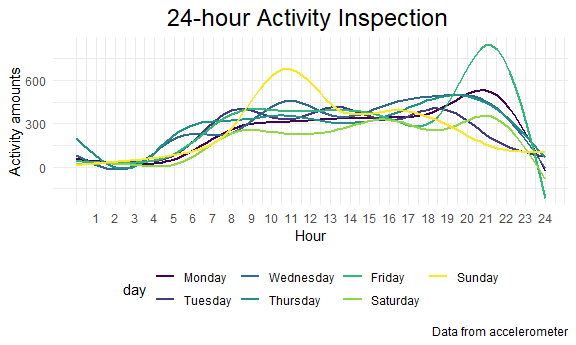
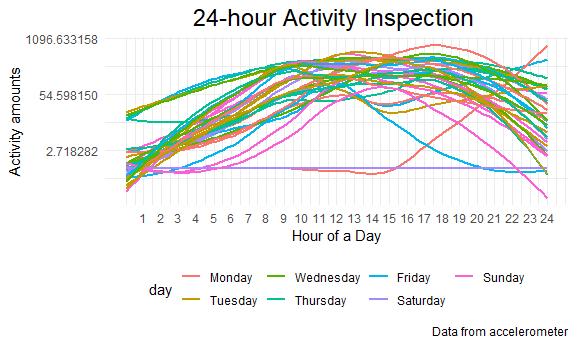
Problem2_part2,3_interpretation + Problem3_start

diff --git a/p8105_hw3_jg4294.md b/p8105_hw3_jg4294.md
@@ -1,7 +1,7 @@
 Homework 3
 ================
 JingYao Geng
-2020-10-10
+2020-10-12
 
 ### Problem 1
 
@@ -151,7 +151,8 @@ acc_df =
     
     day = forcats::fct_relevel(day, c("Monday", "Tuesday", "Wednesday", "Thursday", "Friday", "Saturday", "Sunday"))
   ) %>%
-  arrange(week, day)
+  group_by(week) %>%
+  arrange(day, .by_group = TRUE)
 ```
 
 The original accelerometer dataset has 36 observations and 1443 columns.
@@ -178,37 +179,149 @@ acc_df %>%
 |  4   | 409450.00 | 319568.0 |  434460   | 340291.0 | 154049.0 |   1440   | 260617 |
 |  5   | 389080.00 | 367824.0 |  445366   | 549658.0 | 620860.0 |   1440   | 138421 |
 
-Saturday seems to be the day that man has least activity amounts,
-especially for the last 2 weeks. All the weekdays seem to have quite
-similar activity amounts in general. Other trends might be difficult to
-find throughout the table.
+The activity amounts were pretty stable for Wednesday and Thursday
+during the 5-week period. Saturday seems to be the day that the man had
+least activity amounts, especially for the last 2 weeks. Overall, the
+men has less activity amounts in week 4 and 5. It seems to be reasonable
+that it’s hard to stick to one thing for a long time. Other trends might
+be difficult to find throughout the table.
 
 ##### Create a plot showing 24-hour activity time courses for each day
 
 ``` r
 acc_df %>% 
-  ggplot(aes(x = activity_minutes, y = activity_amounts, color = day)) + 
-  geom_smooth(se = F) +
+  group_by(day_id, day, week) %>%
+  ggplot(aes(x = activity_minutes, y = activity_amounts, color = day, group = day_id)) + 
+  stat_smooth(se = F, method = "loess") +
 
   labs(title = "24-hour Activity Inspection ",
        caption = "Data from accelerometer",
-       x = "Hour",
+       x = "Hour of a Day",
        y = "Activity amounts") + 
   theme(plot.title = element_text(hjust = 0.5, size = 18)) +
   scale_x_continuous(
     breaks = seq(60,1440,60), 
     labels = as.character(c(1:24))) +
-  viridis::scale_color_viridis(discrete = TRUE)
+  scale_y_continuous(trans = "log")
 ```
 
-    ## `geom_smooth()` using method = 'gam' and formula 'y ~ s(x, bs = "cs")'
+    ## `geom_smooth()` using formula 'y ~ x'
 
 <img src="p8105_hw3_jg4294_files/figure-gfm/Q2_plot-1.png" width="90%" />
 
-We can see the trends for weekdays are quite tied together(except
-Friday), which is more activities around 8am to 9pm. However, Friday has
-the highest activity amounts around 11am, which is also the highest
-activity amounts among the weekdays. Saturday seems to be the day that
-has the least activity amounts among the week. Sunday has the highest
-activity amounts around 9pm, which is also the overall highest activity
-amounts among the week.
+``` r
+  viridis::scale_color_viridis(discrete = TRUE)
+```
+
+    ## <ggproto object: Class ScaleDiscrete, Scale, gg>
+    ##     aesthetics: colour
+    ##     axis_order: function
+    ##     break_info: function
+    ##     break_positions: function
+    ##     breaks: waiver
+    ##     call: call
+    ##     clone: function
+    ##     dimension: function
+    ##     drop: TRUE
+    ##     expand: waiver
+    ##     get_breaks: function
+    ##     get_breaks_minor: function
+    ##     get_labels: function
+    ##     get_limits: function
+    ##     guide: legend
+    ##     is_discrete: function
+    ##     is_empty: function
+    ##     labels: waiver
+    ##     limits: NULL
+    ##     make_sec_title: function
+    ##     make_title: function
+    ##     map: function
+    ##     map_df: function
+    ##     n.breaks.cache: NULL
+    ##     na.translate: TRUE
+    ##     na.value: NA
+    ##     name: waiver
+    ##     palette: function
+    ##     palette.cache: NULL
+    ##     position: left
+    ##     range: <ggproto object: Class RangeDiscrete, Range, gg>
+    ##         range: NULL
+    ##         reset: function
+    ##         train: function
+    ##         super:  <ggproto object: Class RangeDiscrete, Range, gg>
+    ##     rescale: function
+    ##     reset: function
+    ##     scale_name: viridis
+    ##     train: function
+    ##     train_df: function
+    ##     transform: function
+    ##     transform_df: function
+    ##     super:  <ggproto object: Class ScaleDiscrete, Scale, gg>
+
+We can see that most activities were during 8am to 9pm a day for the 5
+weeks. The activity amounts were similar in most of the days, and the
+peaks of the activity amount usually happen around noon or in the
+afternoon. Other trends are hard to tell.
+
+### Problem 3
+
+``` r
+data("ny_noaa")
+```
+
+  - Read and clean the data
+
+<!-- end list -->
+
+``` r
+ny_df = ny_noaa %>% 
+  janitor::clean_names() %>% 
+  separate(date, into = c("year", "month", "day"), sep = "-") %>% 
+  mutate(prcp = as.numeric(prcp),
+         tmax = as.numeric(tmax),
+         tmin = as.numeric(tmin),
+         prcp = prcp / 10,
+         tmin = tmin / 10,
+         tmax = tmax / 10)
+  skimr::skim(ny_df)
+```
+
+|                                                  |         |
+| :----------------------------------------------- | :------ |
+| Name                                             | ny\_df  |
+| Number of rows                                   | 2595176 |
+| Number of columns                                | 9       |
+| \_\_\_\_\_\_\_\_\_\_\_\_\_\_\_\_\_\_\_\_\_\_\_   |         |
+| Column type frequency:                           |         |
+| character                                        | 4       |
+| numeric                                          | 5       |
+| \_\_\_\_\_\_\_\_\_\_\_\_\_\_\_\_\_\_\_\_\_\_\_\_ |         |
+| Group variables                                  | None    |
+
+Data summary
+
+**Variable type: character**
+
+| skim\_variable | n\_missing | complete\_rate | min | max | empty | n\_unique | whitespace |
+| :------------- | ---------: | -------------: | --: | --: | ----: | --------: | ---------: |
+| id             |          0 |              1 |  11 |  11 |     0 |       747 |          0 |
+| year           |          0 |              1 |   4 |   4 |     0 |        30 |          0 |
+| month          |          0 |              1 |   2 |   2 |     0 |        12 |          0 |
+| day            |          0 |              1 |   2 |   2 |     0 |        31 |          0 |
+
+**Variable type: numeric**
+
+| skim\_variable | n\_missing | complete\_rate |  mean |     sd |     p0 |   p25 |  p50 |  p75 |  p100 | hist  |
+| :------------- | ---------: | -------------: | ----: | -----: | -----: | ----: | ---: | ---: | ----: | :---- |
+| prcp           |     145838 |           0.94 |  2.98 |   7.82 |    0.0 |   0.0 |  0.0 |  2.3 |  2286 | ▇▁▁▁▁ |
+| snow           |     381221 |           0.85 |  4.99 |  27.22 | \-13.0 |   0.0 |  0.0 |  0.0 | 10160 | ▇▁▁▁▁ |
+| snwd           |     591786 |           0.77 | 37.31 | 113.54 |    0.0 |   0.0 |  0.0 |  0.0 |  9195 | ▇▁▁▁▁ |
+| tmax           |    1134358 |           0.56 | 13.98 |  11.14 | \-38.9 |   5.0 | 15.0 | 23.3 |    60 | ▁▂▇▆▁ |
+| tmin           |    1134420 |           0.56 |  3.03 |  10.40 | \-59.4 | \-3.9 |  3.3 | 11.1 |    60 | ▁▁▇▂▁ |
+
+**a short description of the dataset** The ny\_noaa dataset contains 9
+variables and 2595176 observation value.
+
+Important variables: \* prcp: The daily precipitation volume in the
+unique location. \* snow: The daily snowfall volume in the unique
+location. \* snwd: South to North Water diversion in the specific date.
